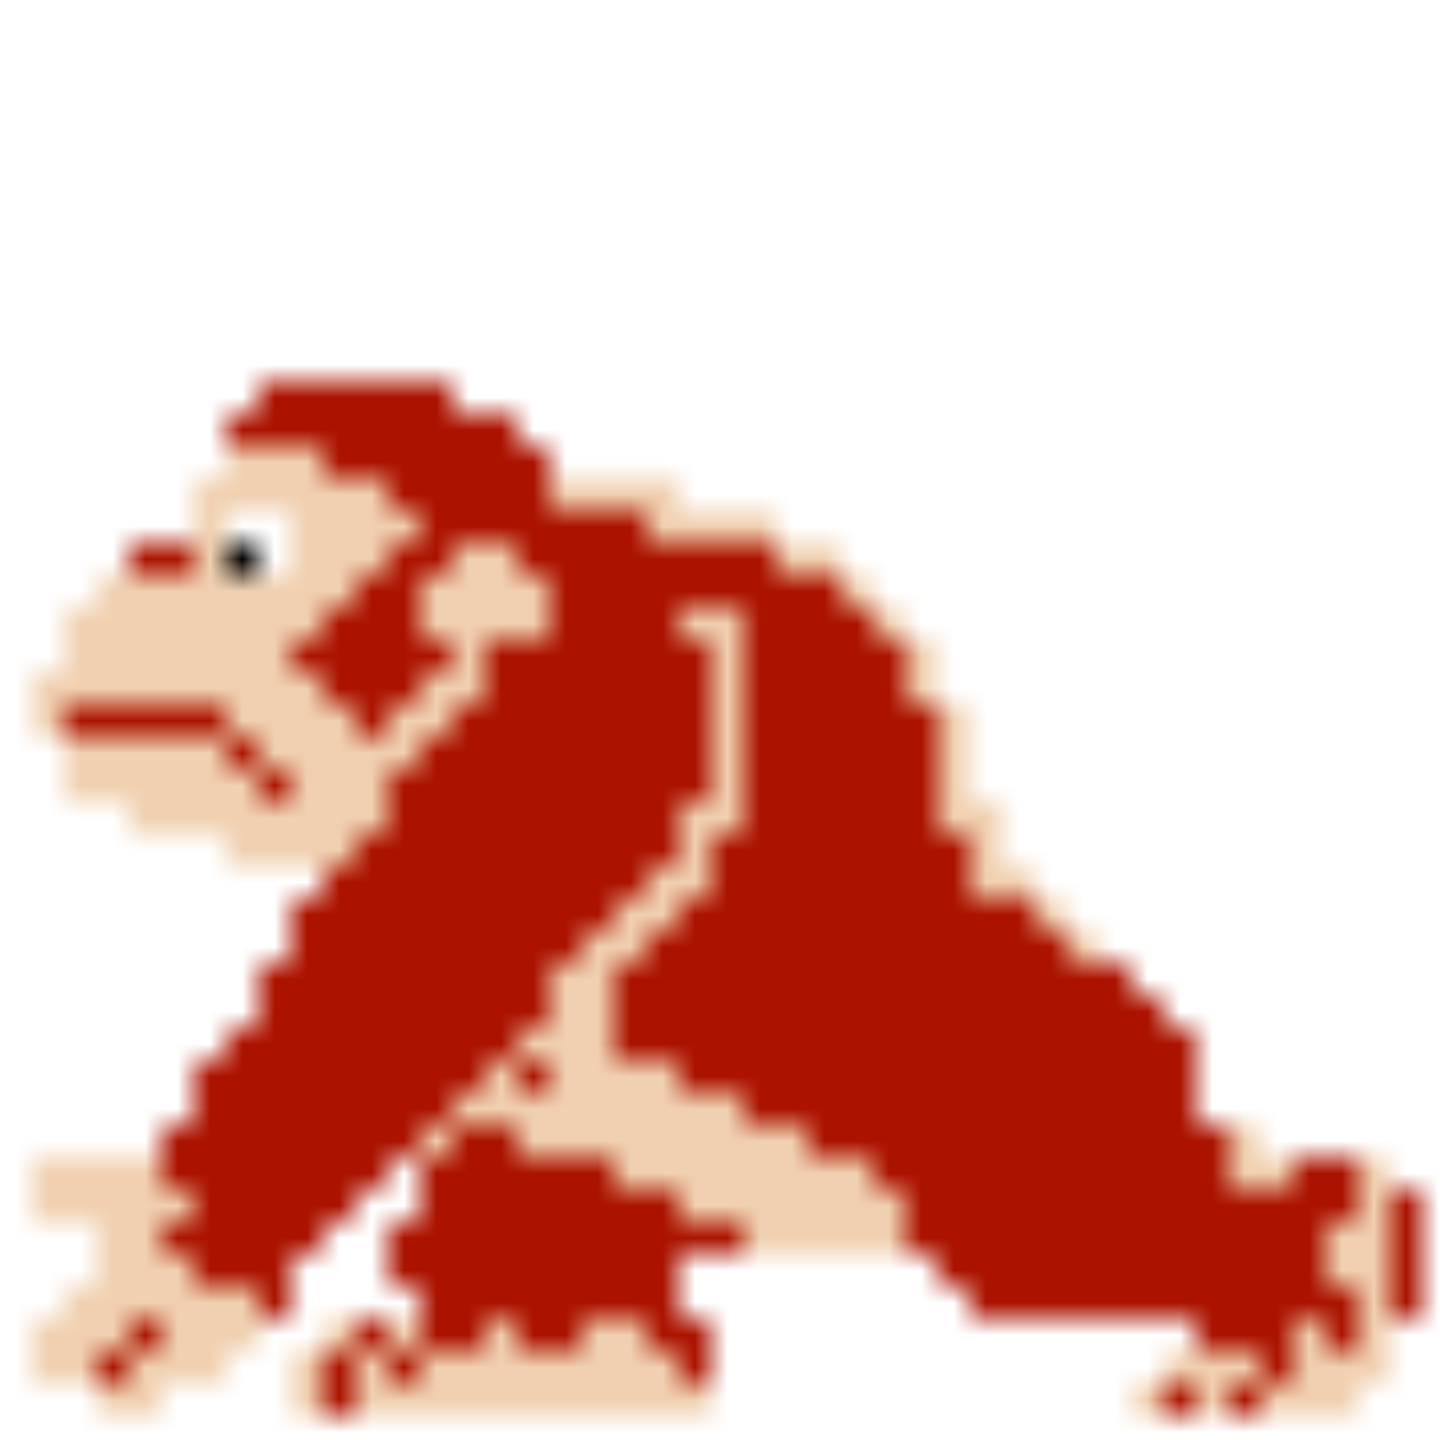
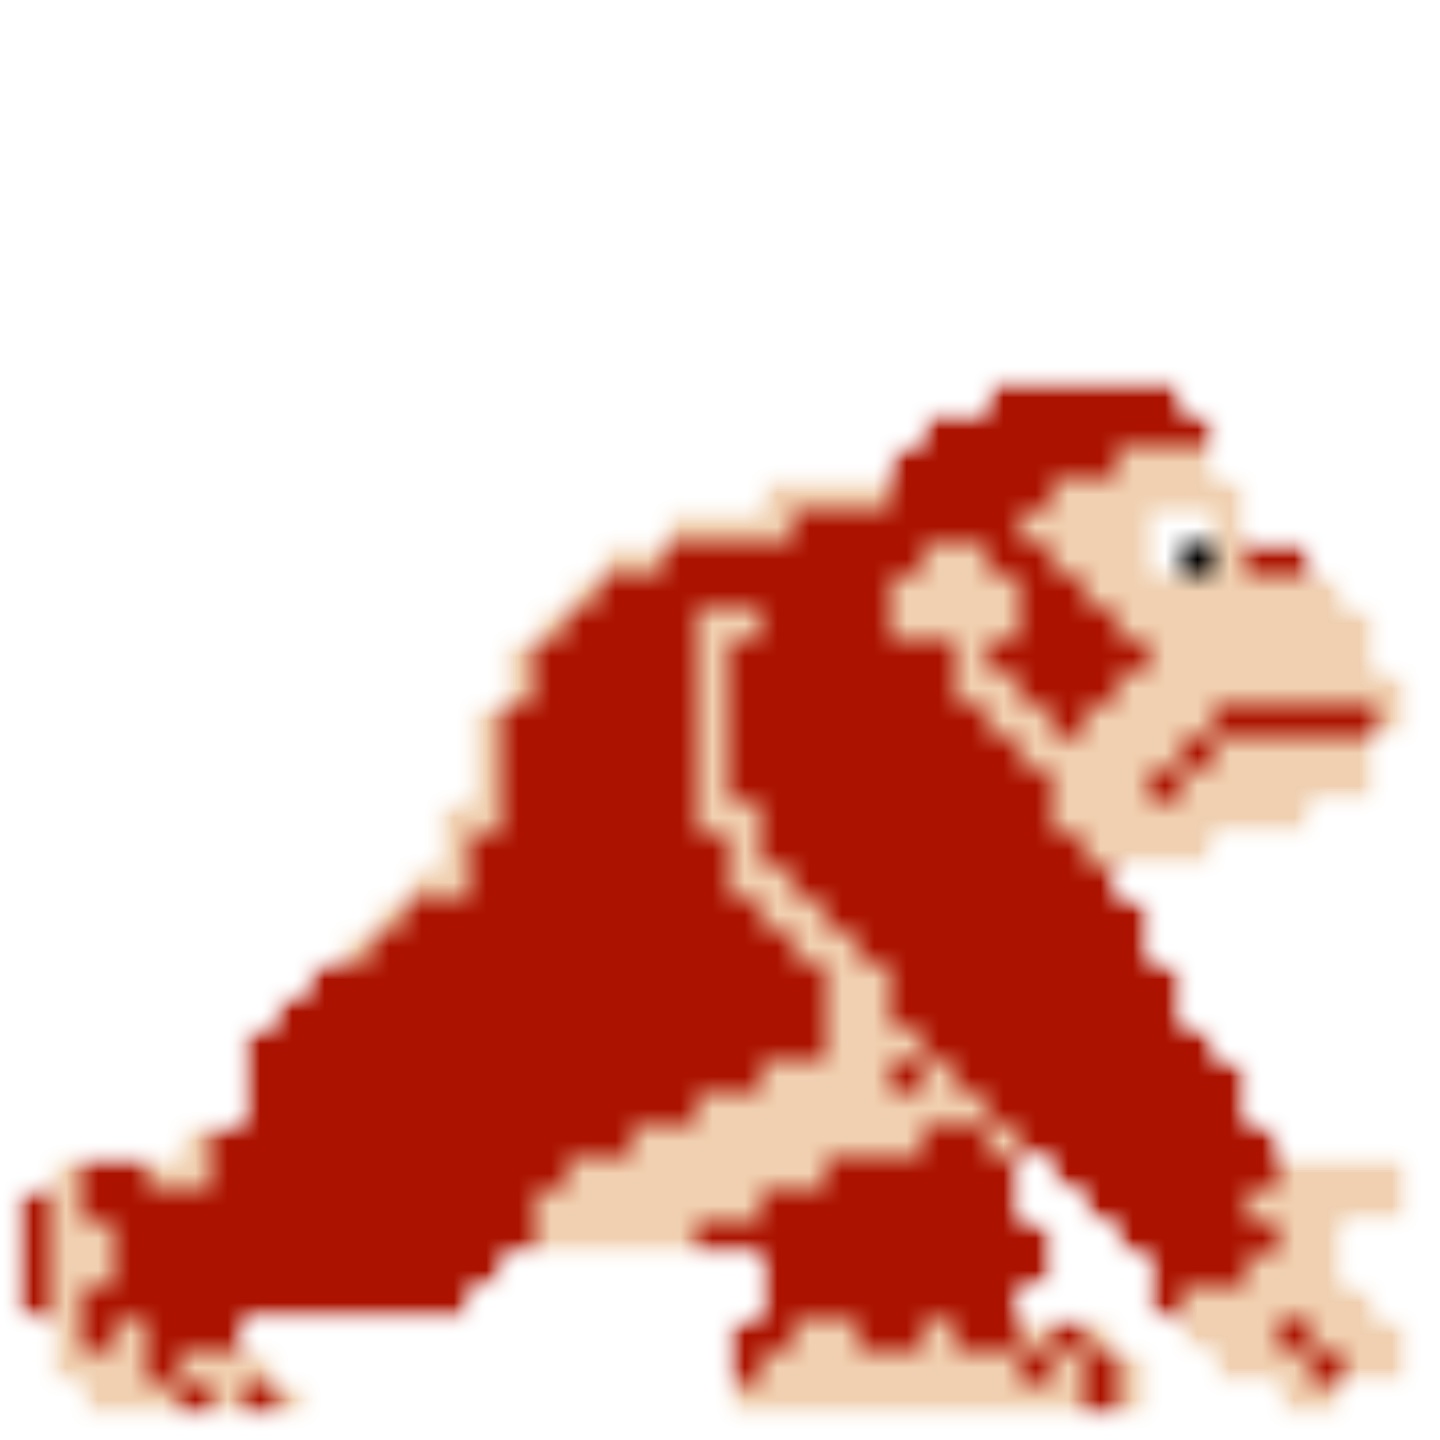
gameplay done

diff --git a/barrel.py b/barrel.py
@@ -8,61 +8,72 @@ class Barrel(pygame.sprite.Sprite):
     self.screen = screen
     self.platforms = platforms
     self.ladders = ladders
-    self.barrelSide = barrel_img1
-    self.barrelSide = pygame.transform.scale(self.barrelSide, (playerWidth, playerHeight))
-    self.barrelRect = self.barrelSide.get_rect()
+    self.barrel = barrel_img1
+    #self.barrel = pygame.transform.scale(self.barrel, (playerWidth, playerHeight))
+    self.barrelRect = self.barrel.get_rect()
     self.barrelRect.left = x
     self.barrelRect.bottom = y
     self.isMovingLeft = False
-    self.nearLadder = False
     self.isClimbing = False
+    self.currentLadder = None
     self.speed = 200
     self.isLineClipping = False
     self.isAlive = True
-   
+  
   def update(self, dt):
-    if not isClimbing:
+    if not self.isClimbing:
       if self.isMovingLeft:
-        self.barrelRect.left -= self.speed * dt
-        if self.barrelRect.left < 0:
-          self.isMovingLeft = False
-          self.barrelRect.bottom += 10
-          self.barrelRect.left += 10
+          self.barrelRect.left -= self.speed * dt
+          if self.barrelRect.left < 0:
+            self.isMovingLeft = False
+            self.barrelRect.bottom += 10
+            self.barrelRect.left += 10
       else:
-        self.barrelRect.left += self.speed * dt 
-        if self.barrelRect.right > window_width:
-          self.isMovingLeft = True
-          self.barrelRect.bottom += 20
-          self.barrelRect.left -= 10       
-      self.gravity(dt)     
+          self.barrelRect.left += self.speed * dt 
+          if self.barrelRect.right > window_width:
+            self.isMovingLeft = True
+            self.barrelRect.bottom += 20
+            self.barrelRect.left -= 10       
+
+      self.gravity(dt)
+
+      if self.barrelRect.left <= barrelX + 100 and self.barrelRect.bottom > barrelY:
+        self.isAlive = False  
       
-      if self.barrelRect.right <= barrelX and self.barrelRect.bottom > barrelY:
-        self.isAlive = False       
-      
-    self.climbDown(dt) 
+    self.climbDown(dt)
 
   def gravity(self, dt):
     self.isLineClipping = False
     for platform in self.platforms:
-      if self.isLineClipping: break
       if self.barrelRect.colliderect(platform):
         self.isLineClipping = True
-    
+        break
+
     if not self.isLineClipping:
       self.barrelRect.bottom += self.speed * dt / 2       
-  
-  def climbDown(self, dt):  
-    detectionZone = pygame.Rect(self.barrelRect.left, self.barrelRect.bottom, self.barrelRect.width - 20, 7)
-  
-    for ladder in self.ladders:
-      ladderBelow = detectionZone.colliderect(ladder)
-      intersection = self.barrelRect.clip(ladder)
-      intersectionArea = intersection.width * intersection.height
-      if ladderBelow:
-        self.isClimbing = random.randint(0, 1) > 0.5
-        if self.isClimbing:
-          self.barrelRect.move_ip(0, self.speed * dt / 2)
-          self.isClimbing = False
-            
+
+  def climbDown(self, dt):
+    detectionZone = pygame.Rect(self.barrelRect.left + 15, self.barrelRect.bottom, self.barrelRect.width - 20, 7)
+    #pygame.draw.rect(self.screen, (0, 0, 255), detectionZone)
+    if not self.isClimbing: 
+      for ladder in self.ladders:
+        ladderBelow = detectionZone.colliderect(ladder)
+        if ladderBelow:
+            if random.randint(0, 1000) > 900:  
+              self.isClimbing = True
+              self.isMovingLeft = not self.isMovingLeft
+              self.currentLadder = ladder
+              self.barrel = barrel_side
+              break
+    
+    if self.isClimbing and self.currentLadder is not None:
+      self.barrelRect.top += self.speed * dt / 1.2
+
+      if not detectionZone.colliderect(self.currentLadder):
+        self.barrelRect.bottom -= 5
+        self.barrel = barrel_img1
+        self.isClimbing = False
+        self.currentLadder = None
+        
   def draw(self):
-    screen.blit(self.barrelSide, self.barrelRect)
+    self.screen.blit(self.barrel, self.barrelRect)

diff --git a/settings.py b/settings.py
@@ -13,12 +13,13 @@ pygame.display.set_caption('Donkey Kong')
 section_width = window_width // 32
 section_height = window_height // 32
 slope = section_height // 8
+peachPos = (190, 120)
 
 playerWidth, playerHeight = 30, 30
 barrelX, barrelY = 70, screen_height - 250
 
 barrel_img1 = pygame.transform.scale(pygame.image.load('assets/images/barrels/barrel.png'),
-                                    (section_width * 0.5, section_height * 0.5))
+                                    (playerWidth, playerHeight))
 flames_img = pygame.transform.scale(pygame.image.load('assets/images/fire.png'),
                                     (section_width * 2, section_height))
 barrel_side = pygame.transform.scale(pygame.image.load('assets/images/barrels/barrel2.png'),
@@ -26,13 +27,13 @@ barrel_side = pygame.transform.scale(pygame.image.load('assets/images/barrels/ba
 dk1 = pygame.transform.scale(pygame.image.load('assets/images/dk/dk1.png'),
                              (section_width * 5, section_height * 5))
 dk2 = pygame.transform.scale(pygame.image.load('assets/images/dk/dk2.png'),
-                             (section_width * 5, section_height * 5))
+                             (section_width * 5.5, section_height * 5.5))
 dk3 = pygame.transform.scale(pygame.image.load('assets/images/dk/dk3.png'),
                              (section_width * 5, section_height * 5))
 peach1 = pygame.transform.scale(pygame.image.load('assets/images/peach/peach1.png'),
-                                (2 * section_width, 3 * section_height))
+                                (1.5 * playerWidth, 1.5 * playerHeight))
 peach2 = pygame.transform.scale(pygame.image.load('assets/images/peach/peach2.png'),
-                                (2 * section_width, 3 * section_height))
+                                (1.3 * playerWidth, 1.3 * playerHeight))
 fireball = pygame.transform.scale(pygame.image.load('assets/images/fireball.png'),
                                   (1.5 * section_width, 2 * section_height))
 fireball2 = pygame.transform.scale(pygame.image.load('assets/images/fireball2.png'),

diff --git a/game.py b/game.py
@@ -1,4 +1,5 @@
 import pygame
+import random
 from player import Player
 from bridge import Bridge
 from ladder import Ladder
@@ -34,6 +35,11 @@ def main():
     barrels = []
     timeSinceLastSpawn = 0
     framesSinceSwitch = 0
+    timeSinceDeath = 0
+    
+    dk = dk2
+    dkPos = (75, 105)
+    peach = peach2
     
     while running:
         for event in pygame.event.get():
@@ -45,8 +51,10 @@ def main():
                     player.isMoving = False
 
         screen.fill((0, 0, 0))
-        
         platforms, ladders = drawMap()
+        screen.blit(dk, dkPos)
+        screen.blit(peach, peachPos)
+        
 
         player.gravity(platforms, dt)
 
@@ -65,9 +73,18 @@ def main():
         player.draw()
         
         timeSinceLastSpawn += dt
-        if timeSinceLastSpawn > 2:
+        
+        if 0.5 < timeSinceLastSpawn < 1:
+            dk = dk2
+            dkPos = (75, 105)
+        if timeSinceLastSpawn > 1.5:
+            dk = dk3
+            dkPos = (80, 112)
+        
+        if timeSinceLastSpawn > (random.randint(30, 60) / 10):
             timeSinceLastSpawn = 0
-            barrels.append(Barrel(screen, platforms, ladders, 200, 215))
+            dk = dk1
+            barrels.append(Barrel(screen, platforms, ladders, 110, 215))
             i = 0
             while i < len(barrels):
                 if not barrels[i].isAlive:
@@ -79,8 +96,11 @@ def main():
             barrel.update(dt)
             barrel.draw()
         
-        player.checkBarrelCollision(barrels)
-        
+        if player.checkBarrelCollision(barrels):
+            player.reset()
+            barrels.clear()
+            pygame.time.wait(1000)
+            
         if framesSinceSwitch < 16:
             screen.blit(fire_barrel1, (barrelX, barrelY))
         else:
@@ -90,7 +110,7 @@ def main():
 
         pygame.display.flip()
         dt = clock.tick(30) / 1000
-
+    
     pygame.quit()
 
 if __name__ == "__main__":

diff --git a/player.py b/player.py
@@ -26,7 +26,7 @@ class Player(pygame.sprite.Sprite):
         self.verticalSpeed = 0
         self.horizontalSpeed = 200
         self.acceleration = 15
-        self.jumpSpeed = -7000
+        self.jumpSpeed = -7500
         self.isJumping = False
         self.isLineClipping = False
         self.isClimbing = False
@@ -52,6 +52,9 @@ class Player(pygame.sprite.Sprite):
         else:
             self.screen.blit(self.imageStand, self.playerRect)
             self.framesSinceSwitch = 0  
+
+        if self.playerRect.left < peachPos[1] + 90 and self.playerRect.bottom <= peachPos[0]:
+            print("victory")
         
     def gravity(self, platforms, dt):
         if self.isClimbing:  #no gravity when climbing
@@ -134,6 +137,11 @@ class Player(pygame.sprite.Sprite):
             intersection_area = intersection.width * intersection.height
             if intersection_area >= 0.33 * self.player_area:
                 #print("collision!!")
-                return False
+                return True
         
-        return True   
+        return False   
+
+    def reset(self):
+        self.playerRect.left = 150
+        self.playerRect.top = screen_height - 200
+        self.isImageFacingLeft = False
